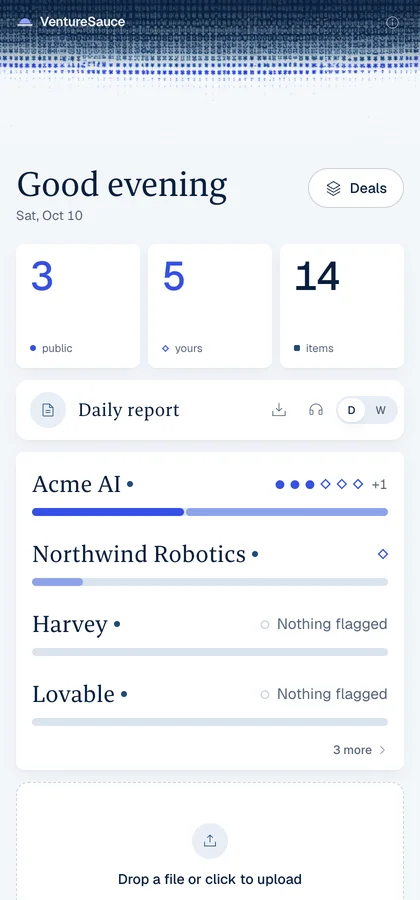
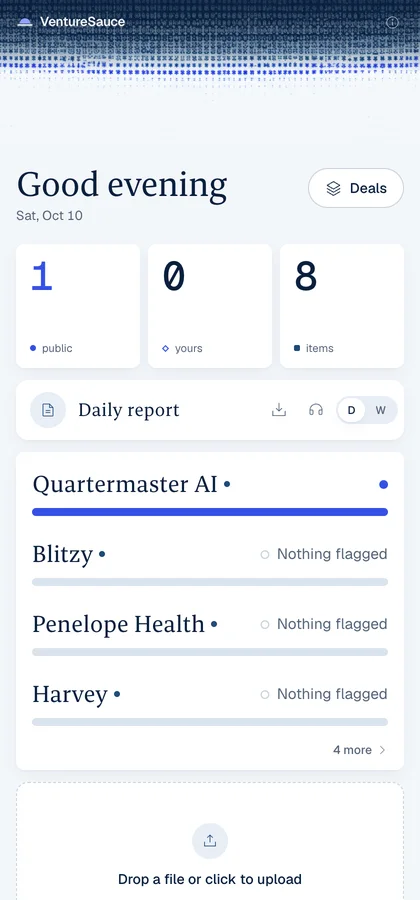
README: screenshots on real data (Quartermaster AI's SEC alert and report, the real-company inbox)

diff --git a/README.md b/README.md
@@ -6,7 +6,7 @@
 
 Drop in a deck, an email, call notes or a screenshot. VentureSauce files it under the company, checks every claim against public records and against everything else the founder sent you, then hands you the questions to ask.
 
-![VentureSauce side panel next to a founder's email](docs/img/hero.webp)
+![VentureSauce side panel next to a real SEC raise alert](docs/img/hero.webp)
 
 ## Why
 
